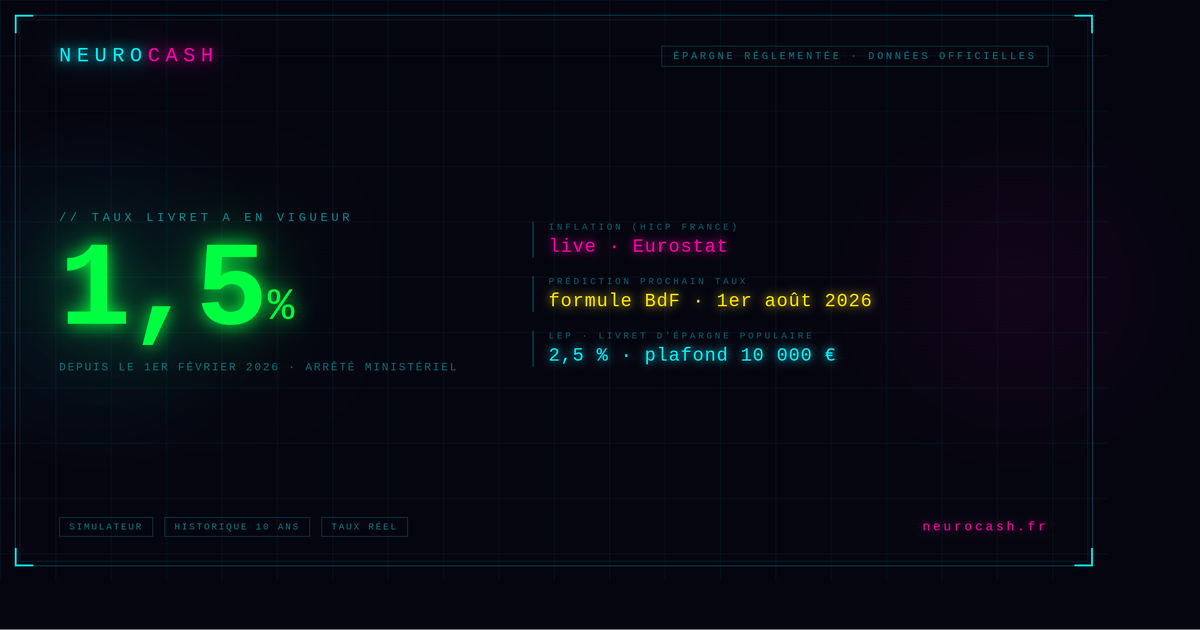
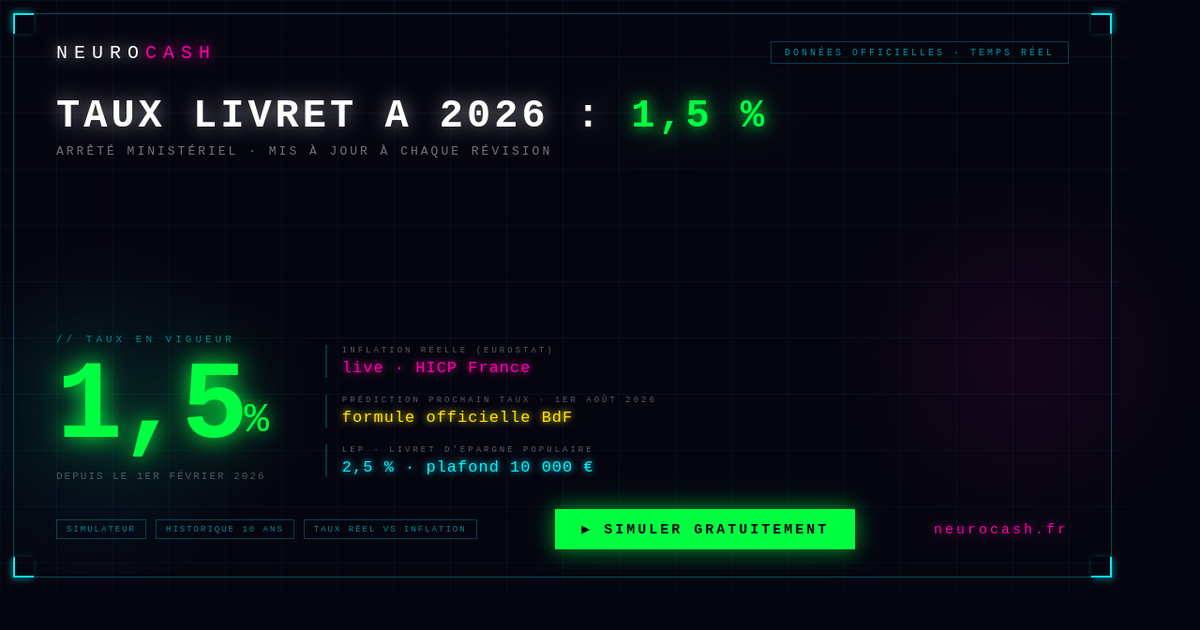
feat: og-image v2 — headline + CTA visibles, redimensionnée 1200×630

diff --git a/og-image.html b/og-image.html
@@ -16,29 +16,26 @@
   }
 
   /* Grille de fond */
-  body::before {
-    content: '';
+  .grid {
     position: absolute;
     inset: 0;
     background-image:
-      linear-gradient(rgba(0,245,255,0.05) 1px, transparent 1px),
-      linear-gradient(90deg, rgba(0,245,255,0.05) 1px, transparent 1px);
+      linear-gradient(rgba(0,245,255,0.04) 1px, transparent 1px),
+      linear-gradient(90deg, rgba(0,245,255,0.04) 1px, transparent 1px);
     background-size: 60px 60px;
     z-index: 0;
   }
 
   /* Scanlines */
-  body::after {
-    content: '';
+  .scan {
     position: absolute;
     inset: 0;
     background: repeating-linear-gradient(
       0deg,
-      transparent, transparent 2px,
-      rgba(0,0,0,0.08) 2px, rgba(0,0,0,0.08) 4px
+      transparent, transparent 3px,
+      rgba(0,0,0,0.07) 3px, rgba(0,0,0,0.07) 4px
     );
     z-index: 1;
-    pointer-events: none;
   }
 
   .wrap {
@@ -48,111 +45,135 @@
     height: 100%;
     display: flex;
     flex-direction: column;
-    justify-content: space-between;
-    padding: 48px 64px;
+    padding: 44px 60px;
   }
 
-  /* Bordure néon */
+  /* Bordure */
   .frame {
     position: absolute;
-    inset: 16px;
-    border: 1px solid rgba(0,245,255,0.25);
+    inset: 14px;
+    border: 1px solid rgba(0,245,255,0.3);
     z-index: 2;
     pointer-events: none;
   }
-  .frame::before {
-    content: '';
-    position: absolute;
-    inset: 4px;
-    border: 1px solid rgba(0,245,255,0.1);
-  }
 
-  /* Coins décoratifs */
   .corner {
     position: absolute;
-    width: 20px;
-    height: 20px;
+    width: 22px;
+    height: 22px;
     border-color: #00f5ff;
     border-style: solid;
   }
-  .corner.tl { top: 16px; left: 16px;  border-width: 2px 0 0 2px; }
-  .corner.tr { top: 16px; right: 16px; border-width: 2px 2px 0 0; }
-  .corner.bl { bottom: 16px; left: 16px;  border-width: 0 0 2px 2px; }
-  .corner.br { bottom: 16px; right: 16px; border-width: 0 2px 2px 0; }
+  .corner.tl { top: 14px; left: 14px;  border-width: 2px 0 0 2px; box-shadow: -2px -2px 8px rgba(0,245,255,0.4); }
+  .corner.tr { top: 14px; right: 14px; border-width: 2px 2px 0 0; box-shadow: 2px -2px 8px rgba(0,245,255,0.4); }
+  .corner.bl { bottom: 14px; left: 14px;  border-width: 0 0 2px 2px; box-shadow: -2px 2px 8px rgba(0,245,255,0.4); }
+  .corner.br { bottom: 14px; right: 14px; border-width: 0 2px 2px 0; box-shadow: 2px 2px 8px rgba(0,245,255,0.4); }
 
-  /* En-tête */
-  .header {
+  /* Lueurs d'ambiance */
+  .glow-l {
+    position: absolute; left: -80px; top: 40%;
+    width: 380px; height: 380px;
+    background: radial-gradient(circle, rgba(0,245,255,0.07) 0%, transparent 70%);
+    z-index: 0;
+  }
+  .glow-r {
+    position: absolute; right: -80px; top: 30%;
+    width: 380px; height: 380px;
+    background: radial-gradient(circle, rgba(255,0,170,0.07) 0%, transparent 70%);
+    z-index: 0;
+  }
+
+  /* ── Top bar ── */
+  .topbar {
     display: flex;
     align-items: center;
     justify-content: space-between;
+    margin-bottom: 32px;
   }
 
   .logo {
-    font-size: 22px;
-    letter-spacing: 6px;
-    text-transform: uppercase;
-    color: #00f5ff;
-    text-shadow: 0 0 12px #00f5ff, 0 0 30px rgba(0,245,255,0.4);
+    font-size: 20px;
+    letter-spacing: 7px;
+    color: #ffffff;
+    text-shadow: 0 0 14px rgba(255,255,255,0.6);
   }
-  .logo span {
-    color: #ff00aa;
-    text-shadow: 0 0 12px #ff00aa, 0 0 30px rgba(255,0,170,0.4);
-  }
+  .logo em { color: #ff00aa; font-style: normal; text-shadow: 0 0 14px #ff00aa; }
 
   .badge {
-    font-size: 11px;
+    font-size: 10px;
     letter-spacing: 3px;
-    color: rgba(0,245,255,0.5);
-    border: 1px solid rgba(0,245,255,0.2);
-    padding: 4px 12px;
+    color: rgba(0,245,255,0.6);
+    border: 1px solid rgba(0,245,255,0.25);
+    padding: 5px 14px;
   }
 
-  /* Zone centrale */
+  /* ── Titre principal (headline) ── */
+  .headline {
+    font-size: 42px;
+    font-weight: bold;
+    letter-spacing: 4px;
+    color: #ffffff;
+    text-shadow: 0 0 20px rgba(255,255,255,0.5);
+    margin-bottom: 6px;
+    text-transform: uppercase;
+  }
+  .headline span {
+    color: #00ff41;
+    text-shadow: 0 0 16px #00ff41, 0 0 40px rgba(0,255,65,0.4);
+  }
+
+  .sub {
+    font-size: 13px;
+    letter-spacing: 3px;
+    color: rgba(255,255,255,0.45);
+    margin-bottom: 28px;
+  }
+
+  /* ── Zone centrale ── */
   .center {
     display: flex;
     align-items: flex-end;
-    gap: 80px;
+    gap: 60px;
+    flex: 1;
   }
 
-  .rate-block {}
+  .rate-block { flex-shrink: 0; }
 
   .rate-label {
-    font-size: 13px;
+    font-size: 11px;
     letter-spacing: 4px;
-    color: rgba(0,245,255,0.55);
-    margin-bottom: 8px;
+    color: rgba(0,245,255,0.5);
+    margin-bottom: 6px;
   }
 
   .rate-value {
-    font-size: 130px;
+    font-size: 118px;
     line-height: 1;
     font-weight: bold;
     color: #00ff41;
-    text-shadow: 0 0 20px #00ff41, 0 0 60px rgba(0,255,65,0.5), 0 0 120px rgba(0,255,65,0.2);
+    text-shadow: 0 0 24px #00ff41, 0 0 70px rgba(0,255,65,0.45);
     letter-spacing: -4px;
   }
-
   .rate-unit {
-    font-size: 48px;
+    font-size: 44px;
     color: #00ff41;
-    text-shadow: 0 0 20px #00ff41;
+    text-shadow: 0 0 18px #00ff41;
     vertical-align: super;
-    margin-left: 4px;
   }
 
-  .rate-date {
-    font-size: 12px;
+  .rate-since {
+    font-size: 11px;
     letter-spacing: 2px;
-    color: rgba(0,245,255,0.45);
-    margin-top: 10px;
+    color: rgba(255,255,255,0.3);
+    margin-top: 8px;
   }
 
-  /* Stats secondaires */
+  /* ── Stats ── */
   .stats {
     display: flex;
     flex-direction: column;
-    gap: 20px;
-    padding-bottom: 8px;
+    gap: 18px;
+    padding-bottom: 6px;
   }
 
   .stat {
@@ -161,81 +182,70 @@
   }
 
   .stat-label {
-    font-size: 10px;
+    font-size: 9px;
     letter-spacing: 3px;
-    color: rgba(0,245,255,0.4);
+    color: rgba(255,255,255,0.35);
     text-transform: uppercase;
-    margin-bottom: 4px;
+    margin-bottom: 3px;
   }
 
   .stat-value {
-    font-size: 20px;
+    font-size: 17px;
     letter-spacing: 1px;
+    color: #ffffff;
   }
+  .stat-value.pink   { color: #ff00aa; text-shadow: 0 0 8px #ff00aa; }
+  .stat-value.yellow { color: #ffe600; text-shadow: 0 0 8px #ffe600; }
+  .stat-value.cyan   { color: #00f5ff; text-shadow: 0 0 8px #00f5ff; }
 
-  .stat-value.pink { color: #ff00aa; text-shadow: 0 0 10px #ff00aa; }
-  .stat-value.cyan { color: #00f5ff; text-shadow: 0 0 10px #00f5ff; }
-  .stat-value.yellow { color: #ffe600; text-shadow: 0 0 10px #ffe600; }
-
-  /* Pied */
+  /* ── Footer ── */
   .footer {
     display: flex;
     align-items: center;
     justify-content: space-between;
+    margin-top: 28px;
   }
 
-  .tagline {
-    font-size: 13px;
+  /* CTA bien visible */
+  .cta {
+    background: #00ff41;
+    color: #050510;
+    font-family: 'Courier New', Courier, monospace;
+    font-size: 15px;
+    font-weight: bold;
     letter-spacing: 3px;
-    color: rgba(0,245,255,0.4);
+    padding: 12px 28px;
+    border: none;
+    text-transform: uppercase;
+    box-shadow: 0 0 20px rgba(0,255,65,0.5), 0 0 40px rgba(0,255,65,0.2);
   }
 
   .url {
-    font-size: 14px;
+    font-size: 15px;
     letter-spacing: 3px;
     color: #ff00aa;
-    text-shadow: 0 0 10px rgba(255,0,170,0.5);
+    text-shadow: 0 0 12px rgba(255,0,170,0.6);
   }
 
   .pills {
     display: flex;
-    gap: 12px;
+    gap: 10px;
   }
 
   .pill {
-    font-size: 10px;
+    font-size: 9px;
     letter-spacing: 2px;
-    border: 1px solid rgba(0,245,255,0.2);
+    border: 1px solid rgba(0,245,255,0.25);
     padding: 4px 10px;
-    color: rgba(0,245,255,0.5);
-  }
-
-  /* Lueur d'ambiance */
-  .glow-left {
-    position: absolute;
-    left: -100px;
-    top: 50%;
-    transform: translateY(-50%);
-    width: 400px;
-    height: 400px;
-    background: radial-gradient(circle, rgba(0,245,255,0.06) 0%, transparent 70%);
-    z-index: 0;
-  }
-  .glow-right {
-    position: absolute;
-    right: -100px;
-    top: 50%;
-    transform: translateY(-50%);
-    width: 400px;
-    height: 400px;
-    background: radial-gradient(circle, rgba(255,0,170,0.06) 0%, transparent 70%);
-    z-index: 0;
+    color: rgba(0,245,255,0.55);
   }
 </style>
 </head>
 <body>
-  <div class="glow-left"></div>
-  <div class="glow-right"></div>
+  <div class="grid"></div>
+  <div class="scan"></div>
+  <div class="glow-l"></div>
+  <div class="glow-r"></div>
   <div class="frame"></div>
   <div class="corner tl"></div>
   <div class="corner tr"></div>
@@ -243,28 +253,31 @@
   <div class="corner br"></div>
 
   <div class="wrap">
-    <div class="header">
-      <div class="logo">NEURO<span>CASH</span></div>
-      <div class="badge">ÉPARGNE RÉGLEMENTÉE · DONNÉES OFFICIELLES</div>
+    <div class="topbar">
+      <div class="logo">NEURO<em>CASH</em></div>
+      <div class="badge">DONNÉES OFFICIELLES · TEMPS RÉEL</div>
     </div>
+
+    <div class="headline">Taux Livret A 2026 : <span>1,5 %</span></div>
+    <div class="sub">ARRÊTÉ MINISTÉRIEL · MIS À JOUR À CHAQUE RÉVISION</div>
 
     <div class="center">
       <div class="rate-block">
-        <div class="rate-label">// TAUX LIVRET A EN VIGUEUR</div>
+        <div class="rate-label">// TAUX EN VIGUEUR</div>
         <div>
           <span class="rate-value">1,5</span><span class="rate-unit">%</span>
         </div>
-        <div class="rate-date">DEPUIS LE 1ER FÉVRIER 2026 · ARRÊTÉ MINISTÉRIEL</div>
+        <div class="rate-since">DEPUIS LE 1ER FÉVRIER 2026</div>
       </div>
 
       <div class="stats">
         <div class="stat">
-          <div class="stat-label">Inflation (HICP France)</div>
-          <div class="stat-value pink">live · Eurostat</div>
+          <div class="stat-label">Inflation réelle (Eurostat)</div>
+          <div class="stat-value pink">live · HICP France</div>
         </div>
         <div class="stat">
-          <div class="stat-label">Prédiction prochain taux</div>
-          <div class="stat-value yellow">formule BdF · 1er août 2026</div>
+          <div class="stat-label">Prédiction prochain taux · 1er août 2026</div>
+          <div class="stat-value yellow">formule officielle BdF</div>
         </div>
         <div class="stat">
           <div class="stat-label">LEP · Livret d'Épargne Populaire</div>
@@ -277,8 +290,9 @@
       <div class="pills">
         <div class="pill">SIMULATEUR</div>
         <div class="pill">HISTORIQUE 10 ANS</div>
-        <div class="pill">TAUX RÉEL</div>
+        <div class="pill">TAUX RÉEL VS INFLATION</div>
       </div>
+      <div class="cta">▶ SIMULER GRATUITEMENT</div>
       <div class="url">neurocash.fr</div>
     </div>
   </div>